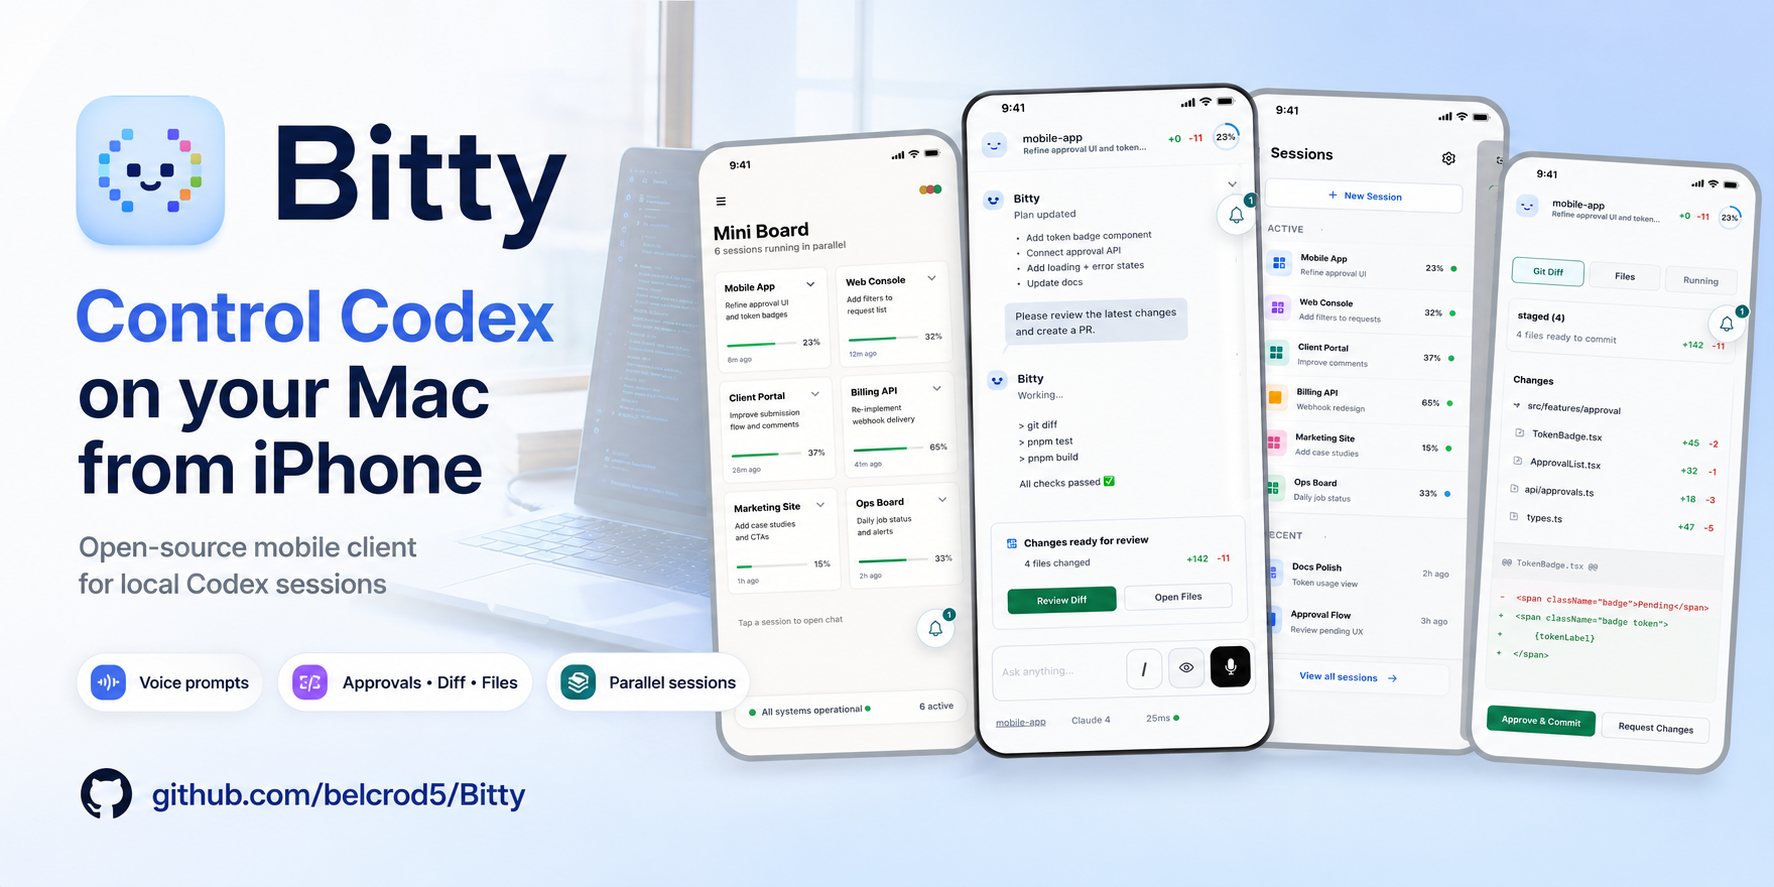
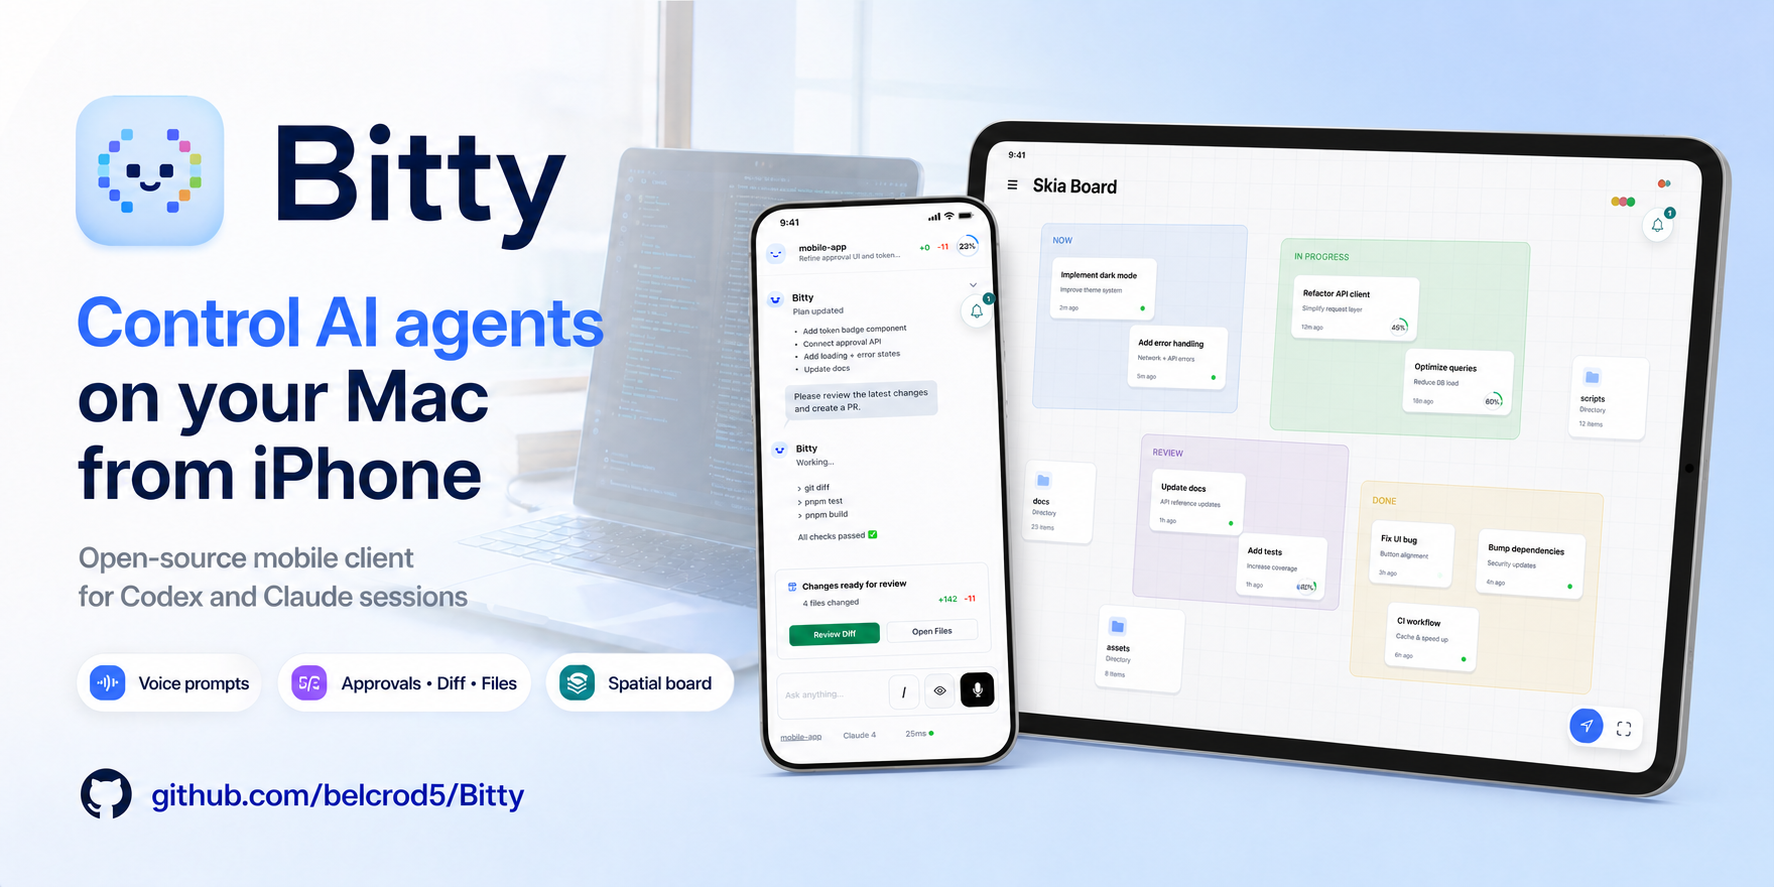
docs: refresh README for Skia Board and Claude

diff --git a/README.md b/README.md
@@ -1,74 +1,75 @@
 # Bitty
 
-Bitty lets you operate Codex running on your macOS machine from an iPhone or
-iPad. The iOS app connects to a local Node.js runner on your Mac, so you can
-start or resume Codex sessions, speak prompts, review approvals, inspect files,
-and monitor local coding work from your mobile device.
+Bitty is a local-first mobile command center for AI agents running on your Mac.
+It connects an iPhone or iPad to a private local runner and brings Codex and
+Claude Code sessions into one visible workspace.
 
-<p>
-  <img src="screenshots/image.png" alt="Bitty app screenshot" width="720" />
+<p align="center">
+  <img src="screenshots/image.png" alt="Bitty with an iPhone chat and iPad Skia Board" width="960" />
 </p>
 
 ## Why Bitty Exists
 
-Bitty started as a personal companion app for local AI-assisted development. The
-original workflow used OpenClaw, but it did not expose enough control over the
-working context, and it was hard to see what the assistant could see, remember,
-or act on.
+Sending a prompt is easy. Keeping track of several agents is not. Work spreads
+across conversations and directories, approvals wait for attention, and it
+becomes difficult to see what is running, what has finished, and where something
+stopped.
 
-The goal of Bitty is to make that shared context more visible and controllable:
-runtime state, token usage, session history, approvals, files, and speech
-activity are surfaced in the mobile app so the human and the AI assistant can
-work from a more aligned view of the task.
+Bitty makes that work visible. The app surfaces conversation history, live
+activity, context usage, approvals, files, and local runner state so you can
+understand what each agent is doing without reconstructing it from terminal
+windows.
+
+It is designed as a pocket view of the AI work happening on your computer: use
+the larger board on an iPad, or check progress and respond from an iPhone while
+away from your desk.
+
+## Skia Board
+
+Skia Board is the main workspace in Bitty. It is a zoomable, Figma-like canvas
+where chat sessions, directories, and files can be placed freely instead of
+being forced into a fixed list.
+
+Create named, colored sections for any workflow that makes sense to you: active
+work, waiting, review, blocked tasks, projects, teams, or something entirely
+different. The board keeps the relationship between conversations and their
+working directories visible, while each card remains a direct entry point into
+the underlying session.
+
+The board is deliberately flexible. It provides spatial organization and live
+status without imposing a particular task-management method.
 
 ## Features
 
-- Start, resume, and monitor Codex sessions running on your Mac from iOS.
+- Start, resume, and monitor Codex and Claude Code sessions running on your Mac.
+- Arrange sessions, directories, and files freely on the zoomable Skia Board.
+- Create, move, resize, label, and color sections to group work your own way.
+- See recent activity, unread state, progress, context usage, and waiting
+  approvals without opening every conversation.
+- Browse session history grouped by working directory from the mobile drawer.
+- Review approval requests before local commands or tools continue.
+- Inspect Git changes, workspace files, and running jobs without returning to
+  the desktop.
 - Talk to the runner with voice input, automatic recording, transcription, and
   optional auto-send.
 - Play assistant replies through local or cloud text-to-speech, including
   streamable TTS playback.
-- Use Mini Board to keep several directory-backed coding sessions visible at
-  once.
-- Browse directory session history, unread states, and recent runner activity
-  from the mobile drawer.
-- Keep token usage, runtime limits, and context usage visible while working.
-- Review approval requests on the phone before local commands or tools
-  continue.
-- Inspect Git changes, workspace files, and running jobs without switching back
-  to the desktop.
 - Search and preview YouTube results when the runner is configured with the
   optional YouTube tools.
 - Export and import app settings through the clipboard for device migration.
-
-## How Bitty Differs From ChatGPT Codex Mobile
-
-ChatGPT's Codex mobile experience is the official remote interface for Codex
-tasks, threads, approvals, diffs, tests, terminal output, and cloud/remote
-developer environments. Bitty is narrower: it is a local-first mobile companion
-for a runner you control on your own machine.
-
-| Area | ChatGPT Codex mobile | Bitty |
-| --- | --- | --- |
-| Primary role | Official Codex task and remote development surface | Mobile client for a local private runner |
-| Runtime | OpenAI Codex remote environment and connected workspaces | Your Mac or local network runner |
-| Interaction style | Task/thread review, approvals, diffs, logs | Voice input, TTS playback, chat, Mini Board, approvals |
-| Visibility | Codex task state and remote run details | Token usage, runtime limits, context usage, and local runner state |
-| Multi-task UX | Thread-oriented mobile access | Drawer, Mini Board, popup chat, and multiple sessions in parallel |
-| Local tools | Remote connections and configured environments | Runner endpoints for local files, jobs, speech, and tools |
-| Best fit | Managing Codex work from anywhere | Keeping a local coding assistant usable from a phone nearby |
 
 ## Screenshots
 
 The screenshots below show illustrative, public-safe demo states used for the README.
 
+<p align="center">
+  <img src="screenshots/skia-board-public.png" alt="Bitty Skia Board with spatially arranged AI sessions" width="360" />
+  <br />
+  <sub>Skia Board</sub>
+</p>
+
 <table>
   <tr>
-    <td align="center" width="33%">
-      <img src="screenshots/mini-board.png" alt="Bitty Mini Board" width="240" />
-      <br />
-      <sub>Mini Board</sub>
-    </td>
     <td align="center" width="33%">
       <img src="screenshots/chat.png" alt="Bitty Chat" width="240" />
       <br />
@@ -79,15 +80,11 @@ The screenshots below show illustrative, public-safe demo states used for the RE
       <br />
       <sub>Runner Drawer</sub>
     </td>
-  </tr>
-  <tr>
     <td align="center" width="33%">
       <img src="screenshots/git-diff-files.png" alt="Bitty Git Diff And Files" width="240" />
       <br />
       <sub>Git Diff And Files</sub>
     </td>
-    <td width="33%"></td>
-    <td width="33%"></td>
   </tr>
 </table>
 
@@ -105,7 +102,9 @@ The screenshots below show illustrative, public-safe demo states used for the RE
 
 - Node.js
 - npm
-- Codex CLI (`codex`)
+- At least one supported agent CLI:
+  - Codex CLI (`codex` 0.145.0 or newer)
+  - Claude Code CLI (`claude` 2.1.214 or newer)
 - Xcode for iOS builds
 - Expo development tooling
 
@@ -141,7 +140,11 @@ cp .env.example .env
 RUNNER_TOKEN_MODE=random
 RUNNER_PAIRING_QR=1
 CODEX_HOME=$HOME/.codex
+AGENT_CLAUDE_BINARY=claude
 ```
+
+`CODEX_HOME` is used by Codex. `AGENT_CLAUDE_BINARY` can be left as `claude`
+when Claude Code is available on `PATH`.
 
 With `RUNNER_TOKEN_MODE=random`, `run-local.sh` generates a fresh
 `RUNNER_TOKEN` on each start and passes it to the mobile app through a Pairing
@@ -154,7 +157,9 @@ RUNNER_TOKEN_MODE=env
 RUNNER_TOKEN=replace-with-a-long-random-string
 ```
 
-3. Log in to Codex for the runner:
+3. Authenticate the agent CLI or CLIs you want to use.
+
+For Codex:
 
 ```bash
 node setup-codex-auth.mjs
@@ -166,10 +171,23 @@ For headless setup, use:
 node setup-codex-auth.mjs --device-auth
 ```
 
-4. Start the local runner:
+For Claude Code:
+
+```bash
+claude auth login
+```
+
+4. Start the local runner. Use `full` mode for Codex or for a mixed
+Codex-and-Claude setup:
 
 ```bash
 ./run-local.sh start --mode full
+```
+
+For a Claude-only setup, the Codex app server is unnecessary:
+
+```bash
+./run-local.sh start --mode runner-only
 ```
 
 Detached starts do not write the Pairing QR to logs. After the runner is
@@ -186,6 +204,9 @@ Useful runner commands:
 ./run-local.sh restart --mode full
 ./run-local.sh stop --mode full
 ```
+
+Use `--mode runner-only` with restart and stop when running Claude only. Choose
+Codex or Claude from Bitty's agent/model selector when starting a new session.
 
 5. Install the mobile app dependencies:
 
@@ -287,19 +308,12 @@ GOOGLE_CLOUD_TTS_LANGUAGE_CODE=ja-JP
 GOOGLE_CLOUD_TTS_VOICE_NAME=ja-JP-Neural2-B
 ```
 
-## Planned Features
-
-These are not implemented yet:
-
-- Push notifications for long-running tasks and approval requests.
-- Siri shortcuts or voice commands for common app actions.
-- Access to the local runner from outside the local network.
-
 ## Tests And Checks
 
 ```bash
 cd expo
-npx tsc --noEmit
+npm run typecheck
+npm test -- --runInBand
 ```
 
 ```bash
